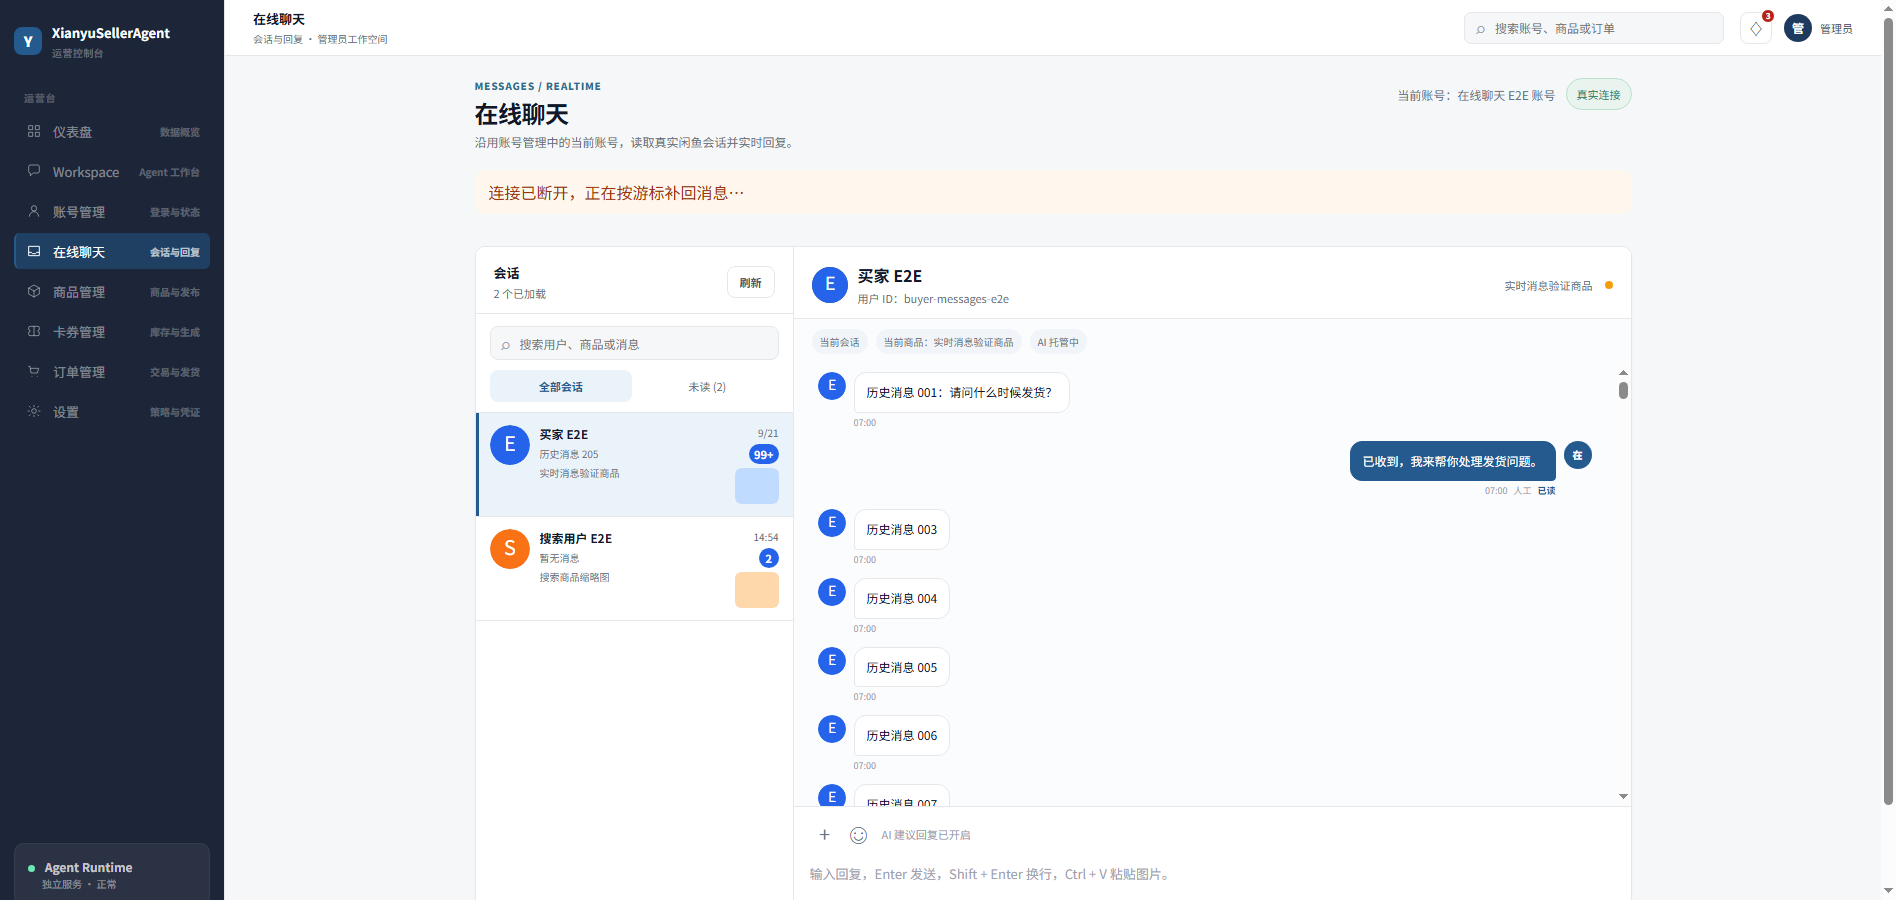
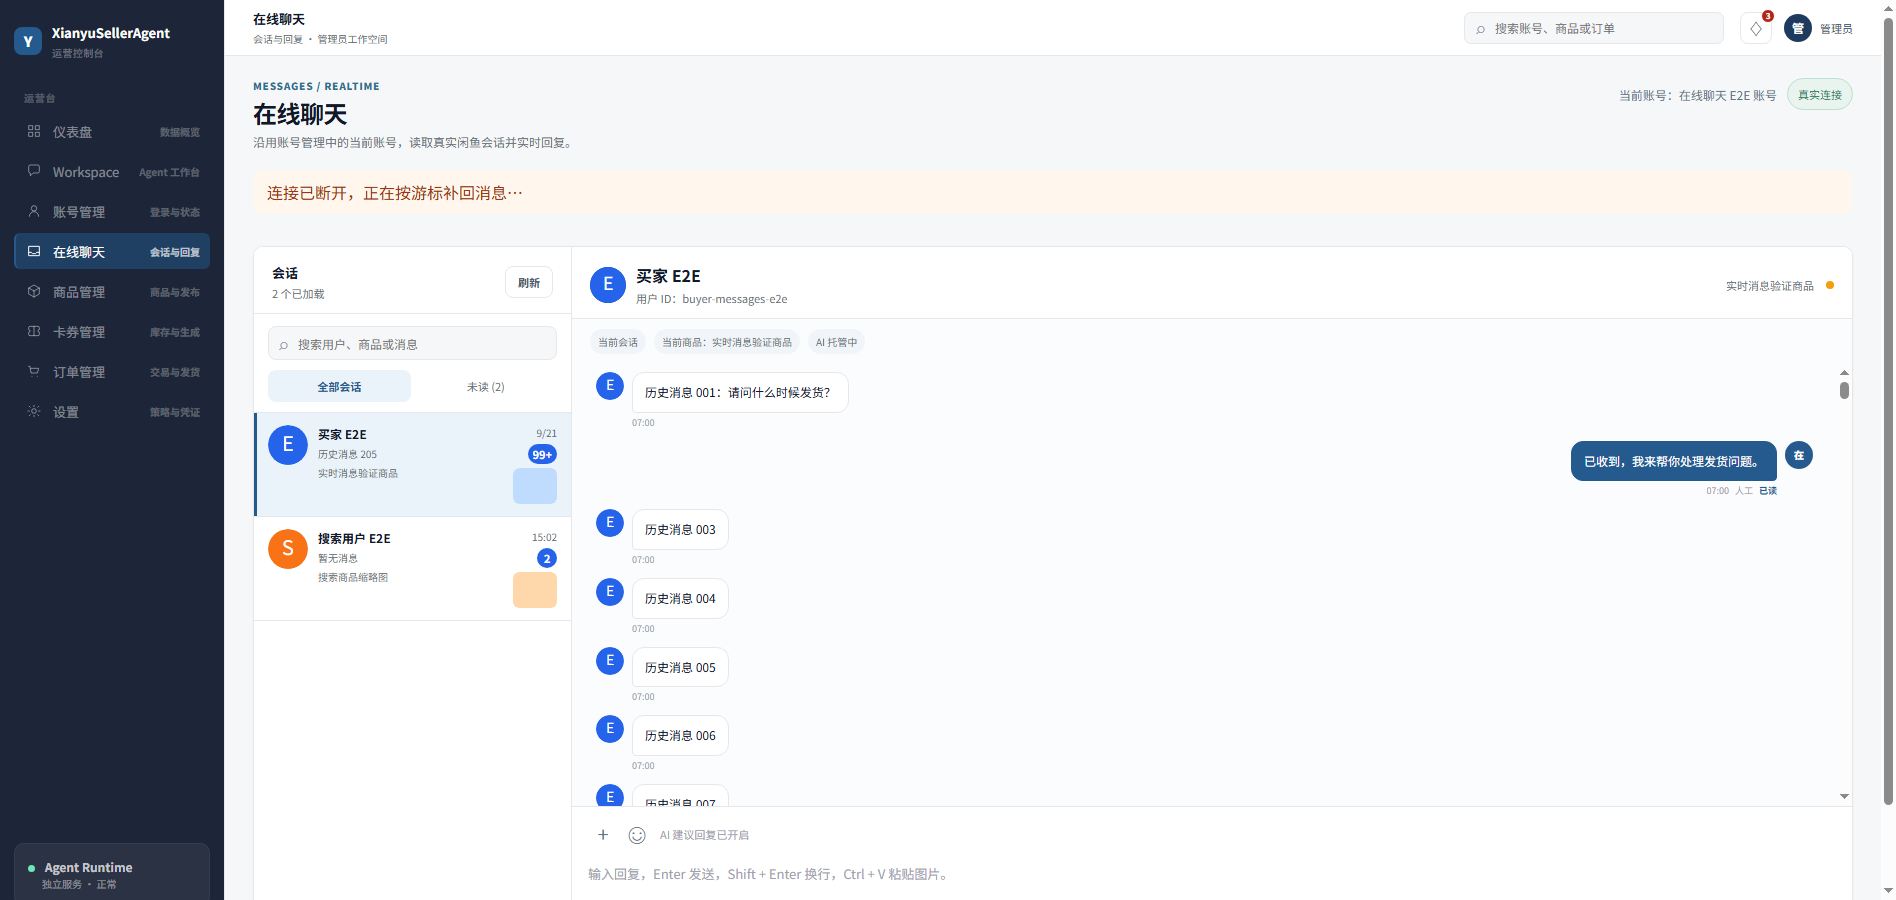
fix(聊天): 取消消息区域固定最大宽度

diff --git a/apps/web/src/features/messages/components/messages.css b/apps/web/src/features/messages/components/messages.css
@@ -1,4 +1,4 @@
-.messages-domain { width: min(100%, 1157px); max-width: 1157px; min-height: 100%; margin-inline: auto; }
+.messages-domain { width: 100%; min-width: 960px; min-height: 100%; margin-inline: auto; }
 .messages-account-context { color: #64748b; font-size: 12px; }
 .messages-connection-banner { display: flex; align-items: center; justify-content: space-between; gap: 12px; border-radius: 10px; padding: 10px 14px; margin-bottom: 14px; background: #f8fafc; color: #475569; }
 .messages-connection-banner.reconnecting, .messages-connection-banner.timeout { background: #fff7ed; color: #9a3412; }
@@ -530,6 +530,11 @@
 }
 
 @media (max-width: 900px) {
+  .messages-domain {
+    width: 100%;
+    min-width: 0;
+  }
+
   .messages-layout.card.panel {
     grid-template-columns: 1fr;
     min-height: 0;
